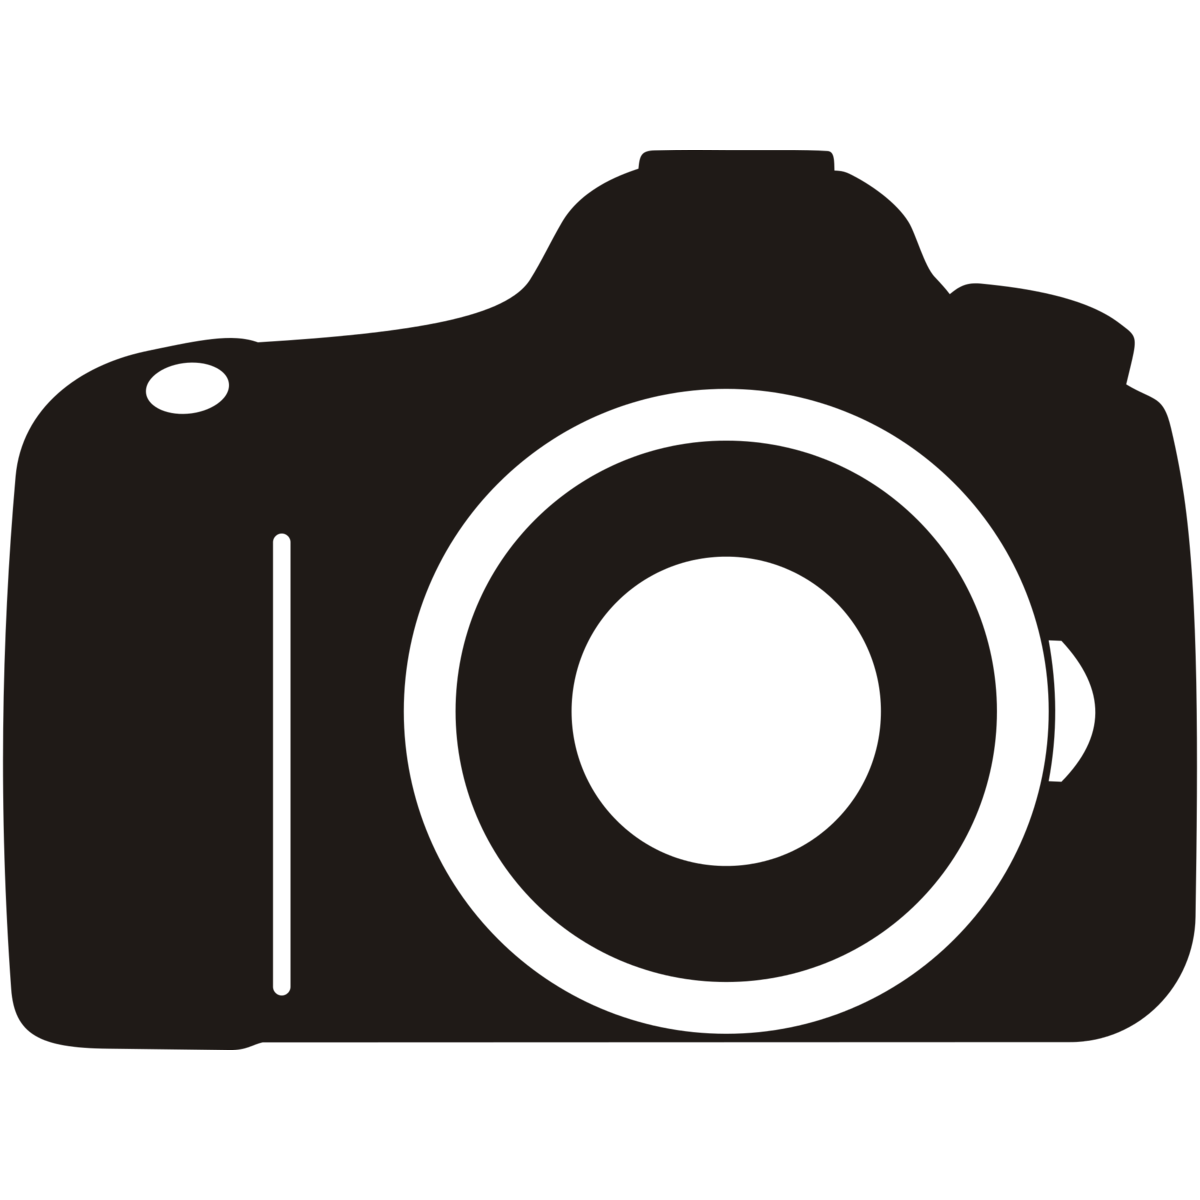
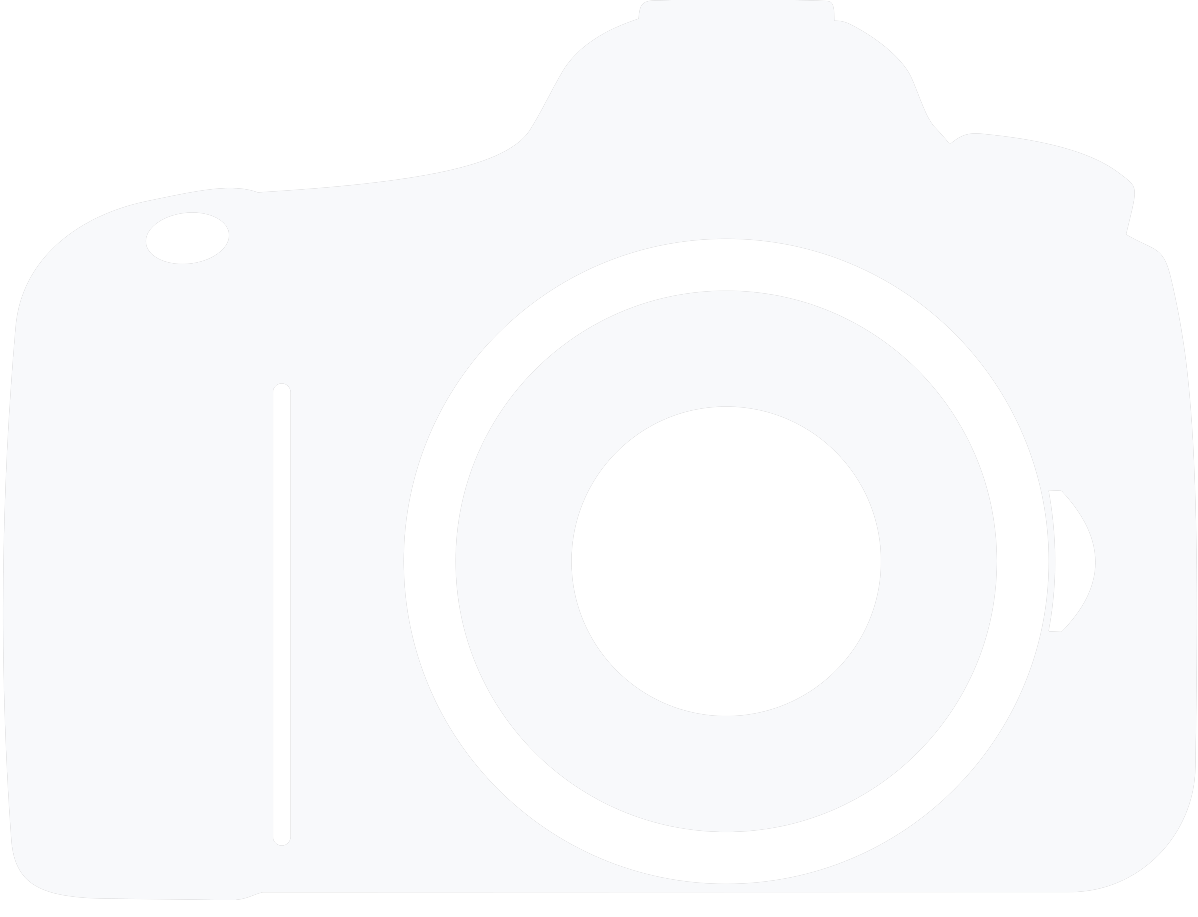
setting photography up:

diff --git a/index.html b/index.html
@@ -47,7 +47,7 @@
             <a href="#technologies" id="technologiesTop">Technologies</a>
           </li>
           <li>
-            <a href="contact.html" id="photographyTop">Photography</a>
+            <a href="#photography" id="photographyTop">Photography</a>
           </li>
         </ul>
       </div>
@@ -68,7 +68,7 @@
         <a href="#education" id="educationTop">Education</a>
         <a href="#experience" id="experienceTop">Experience</a>
         <a href="#technologies" id="technologiesTop">Technologies</a>
-        <a href="contact.html" id="photographyTop">Photography</a>
+        <a href="#photography" id="photographyTop">Photography</a>
       </div>
     </div>
     <!-- End of the header -->
@@ -176,6 +176,8 @@
           </div>
         </section>
         <section id="photography">
+          <h1 class="sectionTitles" id="photography-title">Photography</h1>
+          <img id="camera"></img>
         </section
 </div> <!-- End of Container-Fluid -->
 

diff --git a/assets/js/main.js b/assets/js/main.js
@@ -576,9 +576,16 @@ $('a[href*="#"]')
   let liAdding = document.createElement('li');
 
   liAdding.setAttribute('data-id', "adding");
-  liAdding.textContent = "Always Adding More...";
+  liAdding.textContent = "Always Learning More...";
 
   technologyContentExposed.appendChild(liAdding);
+
+  // Photography Section
+
+  // puts an image into an id.
+  var camera = new Image(5,5);
+  camera.src = "assets/images/camera.png";
+  $("#camera").attr("src", camera.src);
 
 
 });

diff --git a/assets/css/features.css b/assets/css/features.css
@@ -75,10 +75,10 @@ h1 {
 }
 
 .sectionTitles {
-  text-align:left;
-  /* display: block; */
-  top: 95%;
-  left: 2%;
+  text-align: right;
+  top: 10%;
+  right: 20%;
+  padding-right: 20px;
 }
 
 
@@ -249,6 +249,16 @@ h1 {
 
 .technologyList li {
   padding: 6px;
+}
+
+/*Photography*/
+
+#camera {
+  height: 80px;
+  padding: 15px;
+  display: block;
+  margin-top: 60px;
+  margin-left: 10px;
 }
 
 @media screen and (max-width: 1000px) {
